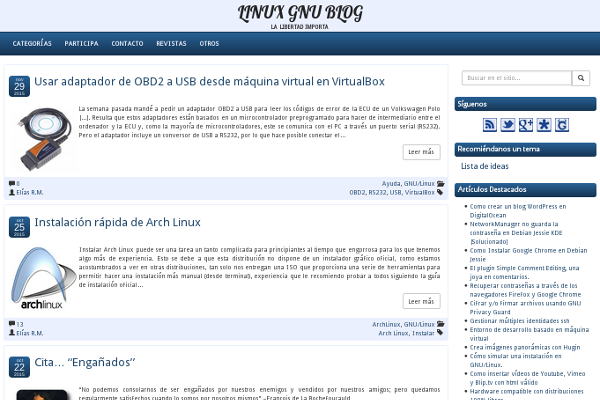
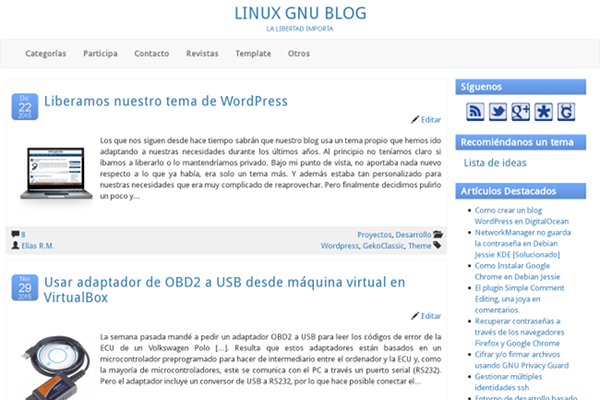
Added rounded borders to sidebar titles and updated version

diff --git a/style.css b/style.css
@@ -4,7 +4,7 @@
  Description:  Responsive classic theme
  Author:       Elías Rodríguez Martín
  Author URI:   http://eliasrm.es
- Version:      0.9.5
+ Version:      0.9.6
  License:      GNU General Public License v3 or later
  License URI:  http://www.gnu.org/licenses/gpl-3.0.html
  Tags:         Responsive, CSS3, HTML5
@@ -170,6 +170,7 @@ img.aligncenter
     padding: 5px 0px 5px 10px;
     font-size: 120%;
     font-weight: bold;
+    border-radius: 5px;
 }
 
 /*############################################# POSTS #############################################*/
